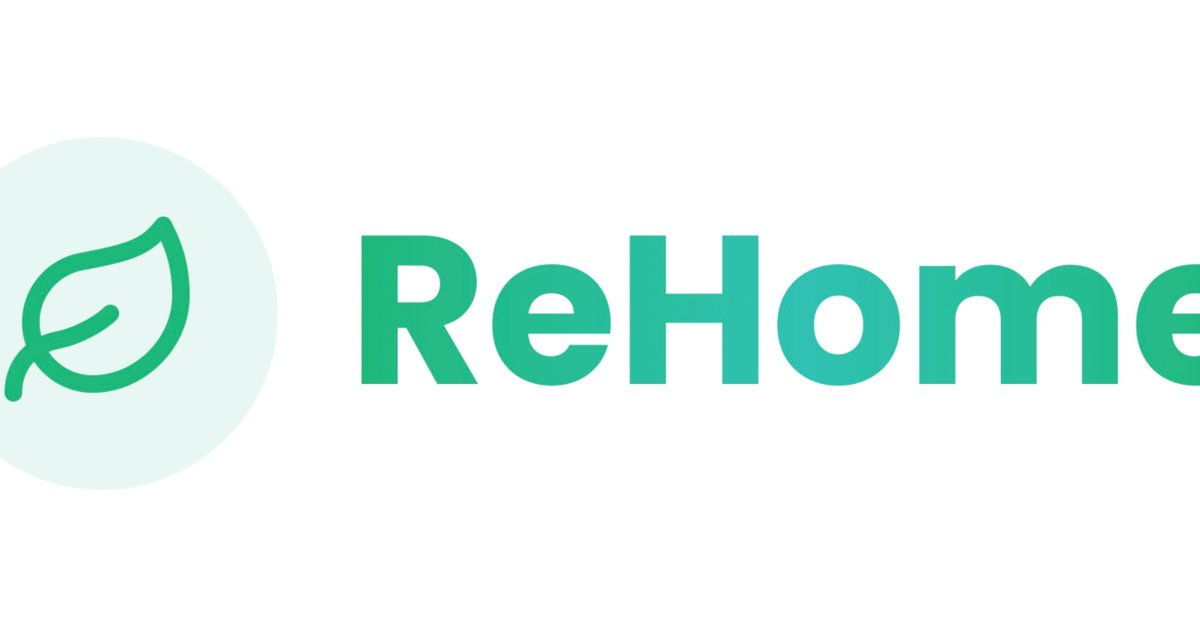
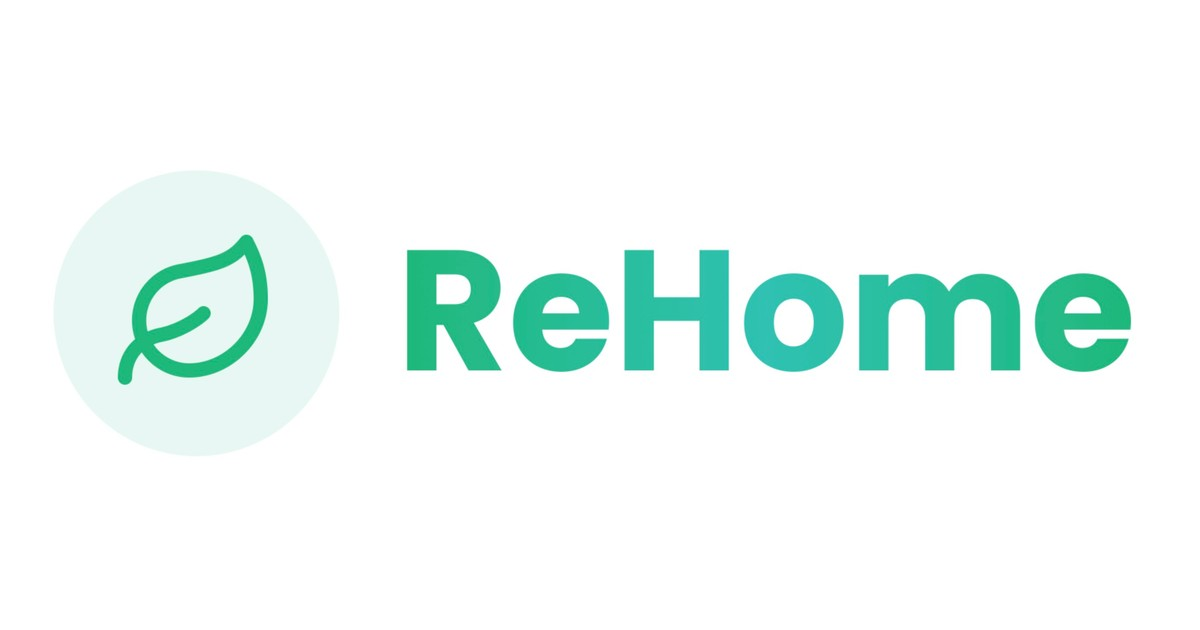
Fix Open Graph image: use 'contain' to fit all content without cropping

Changed region(s): [[0.2775, 0.3619, 1.0, 0.6333], [0.0, 0.3317, 0.2467, 0.6635]]

diff --git a/index.html b/index.html
@@ -29,8 +29,8 @@
     <meta property="og:description" content="AI-powered donation platform helping households donate items to verified partners. Track your environmental impact in real-time." />
     <meta property="og:type" content="website" />
     <meta property="og:url" content="https://13la7e.github.io/ReHome/" />
-    <meta property="og:image" content="https://raw.githubusercontent.com/13LA7E/ReHome/main/public/og-image.png?v=1729036900" />
-    <meta property="og:image:secure_url" content="https://raw.githubusercontent.com/13LA7E/ReHome/main/public/og-image.png?v=1729036900" />
+    <meta property="og:image" content="https://raw.githubusercontent.com/13LA7E/ReHome/main/public/og-image.png?v=1729037000" />
+    <meta property="og:image:secure_url" content="https://raw.githubusercontent.com/13LA7E/ReHome/main/public/og-image.png?v=1729037000" />
     <meta property="og:image:type" content="image/png" />
     <meta property="og:image:width" content="1200" />
     <meta property="og:image:height" content="630" />
@@ -42,14 +42,14 @@
     <meta name="twitter:creator" content="@rehome_app" />
     <meta name="twitter:title" content="ReHome - Transform Clutter into Community Impact" />
     <meta name="twitter:description" content="AI-powered donation platform helping households donate items to verified partners. Track your environmental impact in real-time." />
-    <meta name="twitter:image" content="https://raw.githubusercontent.com/13LA7E/ReHome/main/public/og-image.png?v=1729036900" />
+    <meta name="twitter:image" content="https://raw.githubusercontent.com/13LA7E/ReHome/main/public/og-image.png?v=1729037000" />
     <meta name="twitter:image:alt" content="ReHome - Transform Clutter into Community Impact" />
     
     <!-- Cache busting -->
     <meta http-equiv="cache-control" content="no-cache, no-store, must-revalidate" />
     <meta http-equiv="pragma" content="no-cache" />
     <meta http-equiv="expires" content="0" />
-    <meta name="twitter:image" content="https://raw.githubusercontent.com/13LA7E/ReHome/main/public/og-image.png?v=1729036900" />
+    <meta name="twitter:image" content="https://raw.githubusercontent.com/13LA7E/ReHome/main/public/og-image.png?v=1729037000" />
     <meta name="twitter:image:alt" content="ReHome - Transform Clutter into Community Impact" />
     
     <!-- Single Page Apps for GitHub Pages -->

diff --git a/resize-og-image.js b/resize-og-image.js
@@ -4,12 +4,13 @@ import fs from 'fs';
 async function resizeOGImage() {
   try {
     // Resize to 1200x630 (Open Graph recommended size)
-    await sharp('public/og-image.png')
+    await sharp('IMG_3091.PNG')
       .resize(1200, 630, {
-        fit: 'cover',
-        position: 'center'
+        fit: 'contain',
+        position: 'center',
+        background: { r: 255, g: 255, b: 255, alpha: 1 }
       })
-      .jpeg({ quality: 85 })
+      .jpeg({ quality: 90 })
       .toFile('public/og-image-resized.png');
     
     console.log('✅ Image resized successfully!');
